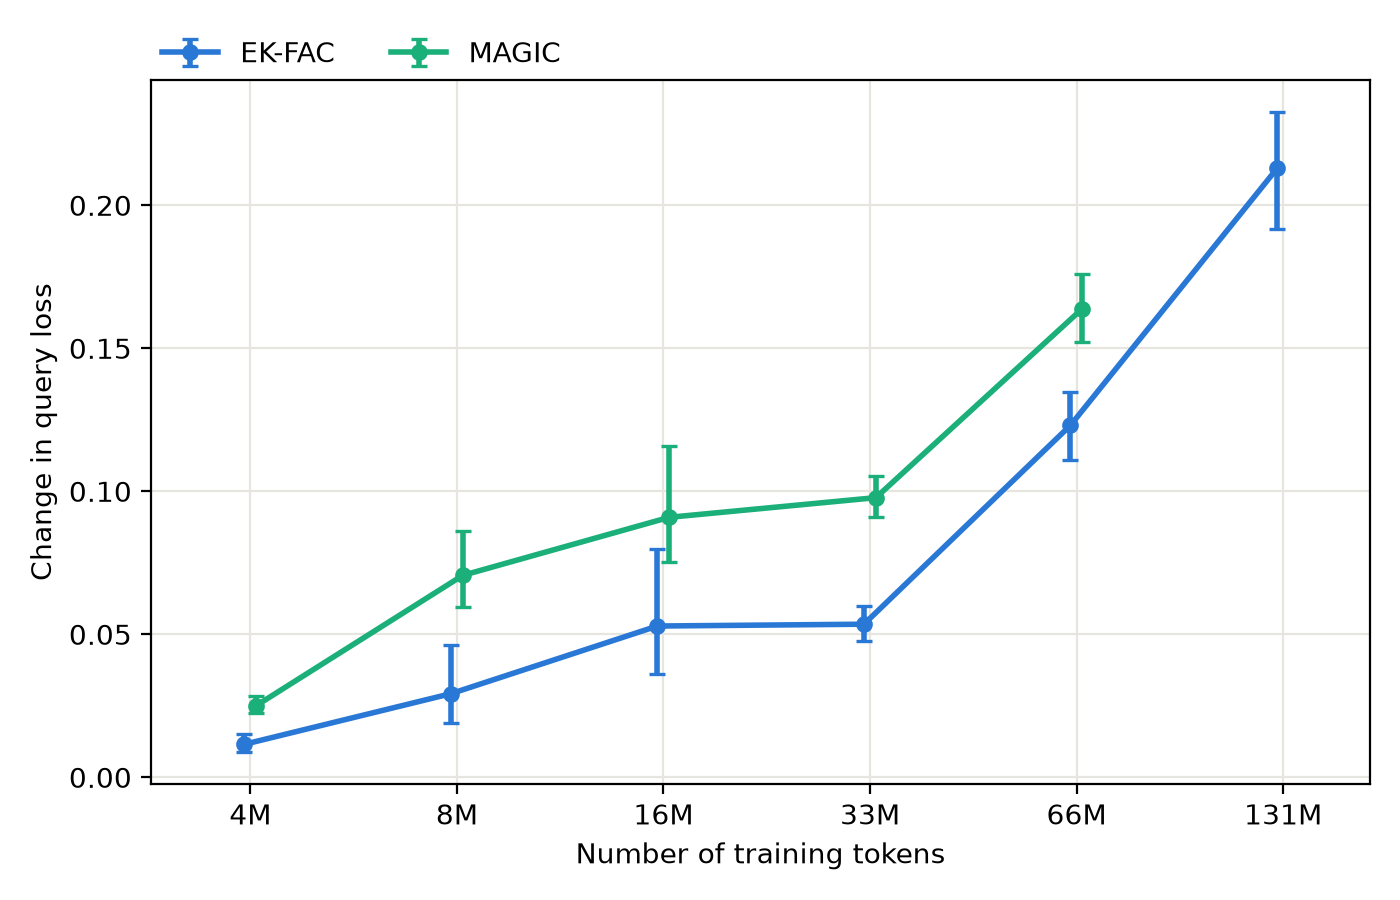
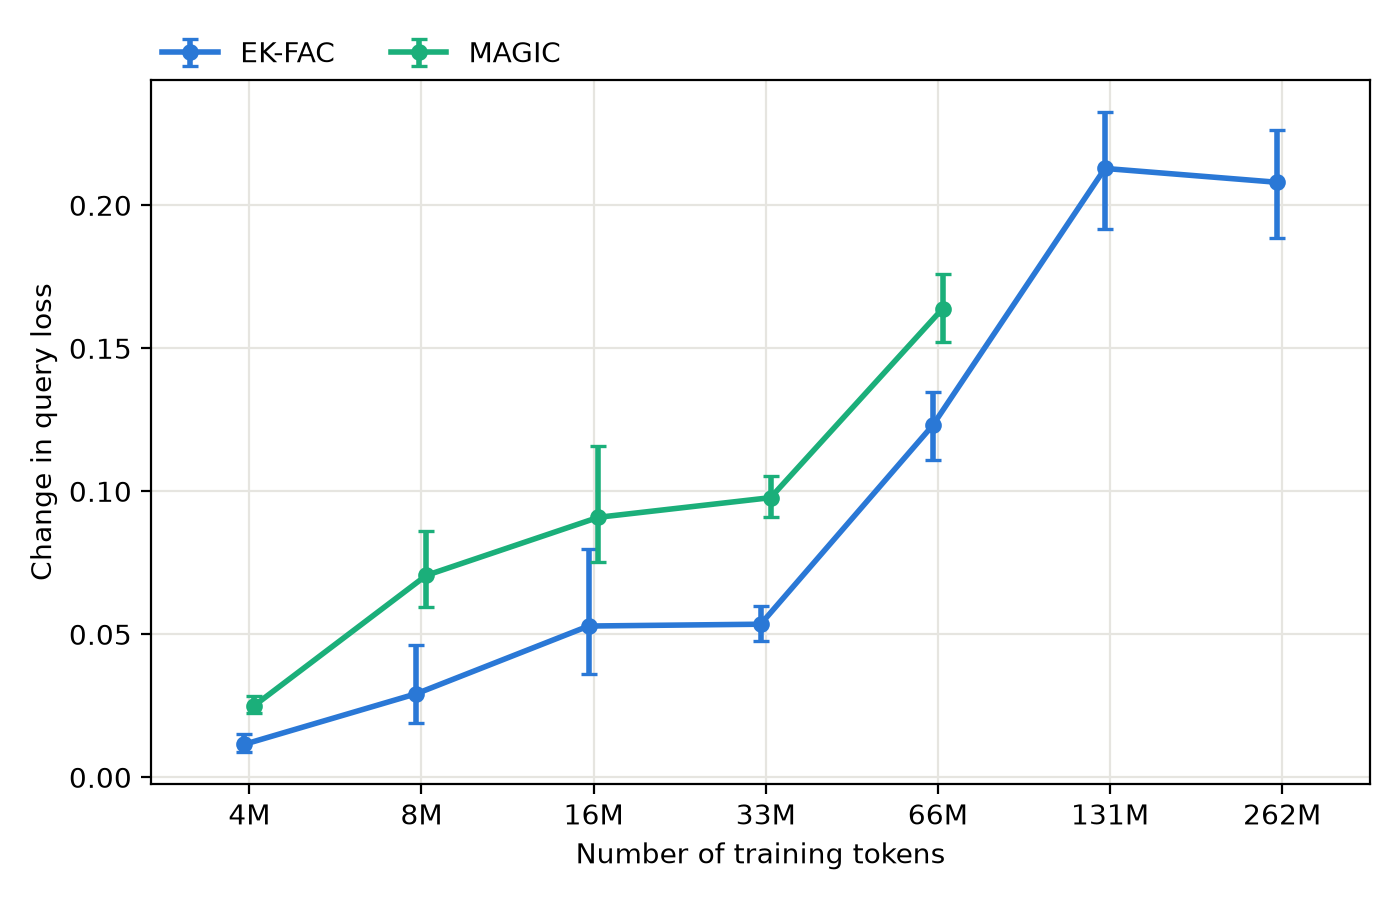
256k EK-FAC filter delta: the 1% curve plateaus after 128k
All ten shards finished, so the token axis extends a doubling further:

    4k    0.01153
    8k    0.02923
    16k   0.05288
    32k   0.05353
    64k   0.12307
    128k  0.21287 [0.19167, 0.23260]
    256k  0.20803 [0.18869, 0.22618]   <-- new

128k and 256k are indistinguishable: the intervals overlap almost entirely and the
point estimate is marginally LOWER at twice the tokens. The curve climbs steeply
from 32k to 128k and then stops climbing. Two doublings would be needed to call
that a plateau rather than one flat step, but as it stands the growth does not
continue, and the earlier 16k-32k flat step means this curve has now been flat
twice.

NS in scaling_plot_mpl.py extended to 256000 so the main figure shows it.

diff --git a/scripts/scaling_plot_mpl.py b/scripts/scaling_plot_mpl.py
@@ -30,7 +30,7 @@ BLUE, ORANGE, AQUA = "#2a78d6", "#eb6834", "#1baf7a"
 # The x dodge separates coincident error bars; multiplicative because x is log.
 SERIES = [("AdamW", BLUE, 0.98, ("plan_adam_eps1e17_", "sm_adamw_eps1e17_")),
           ("Muon", ORANGE, 1.02, ("plan_muon_eps1e17_", "sm_muon_eps1e17_"))]
-NS = [4000, 8000, 16000, 32000, 64000, 128000]
+NS = [4000, 8000, 16000, 32000, 64000, 128000, 256000]
 BATCHES = [16, 32, 64, 128, 256, 512]
 ROOTS = ["/mnt/ssd-2/lucia/paper_runs/experiments", "/mnt/ssd-1/lucia/paper_runs/experiments"]
 TOP40_ROWS = [(4000, "plan_adam_eps1e17_4k_bs256"),
